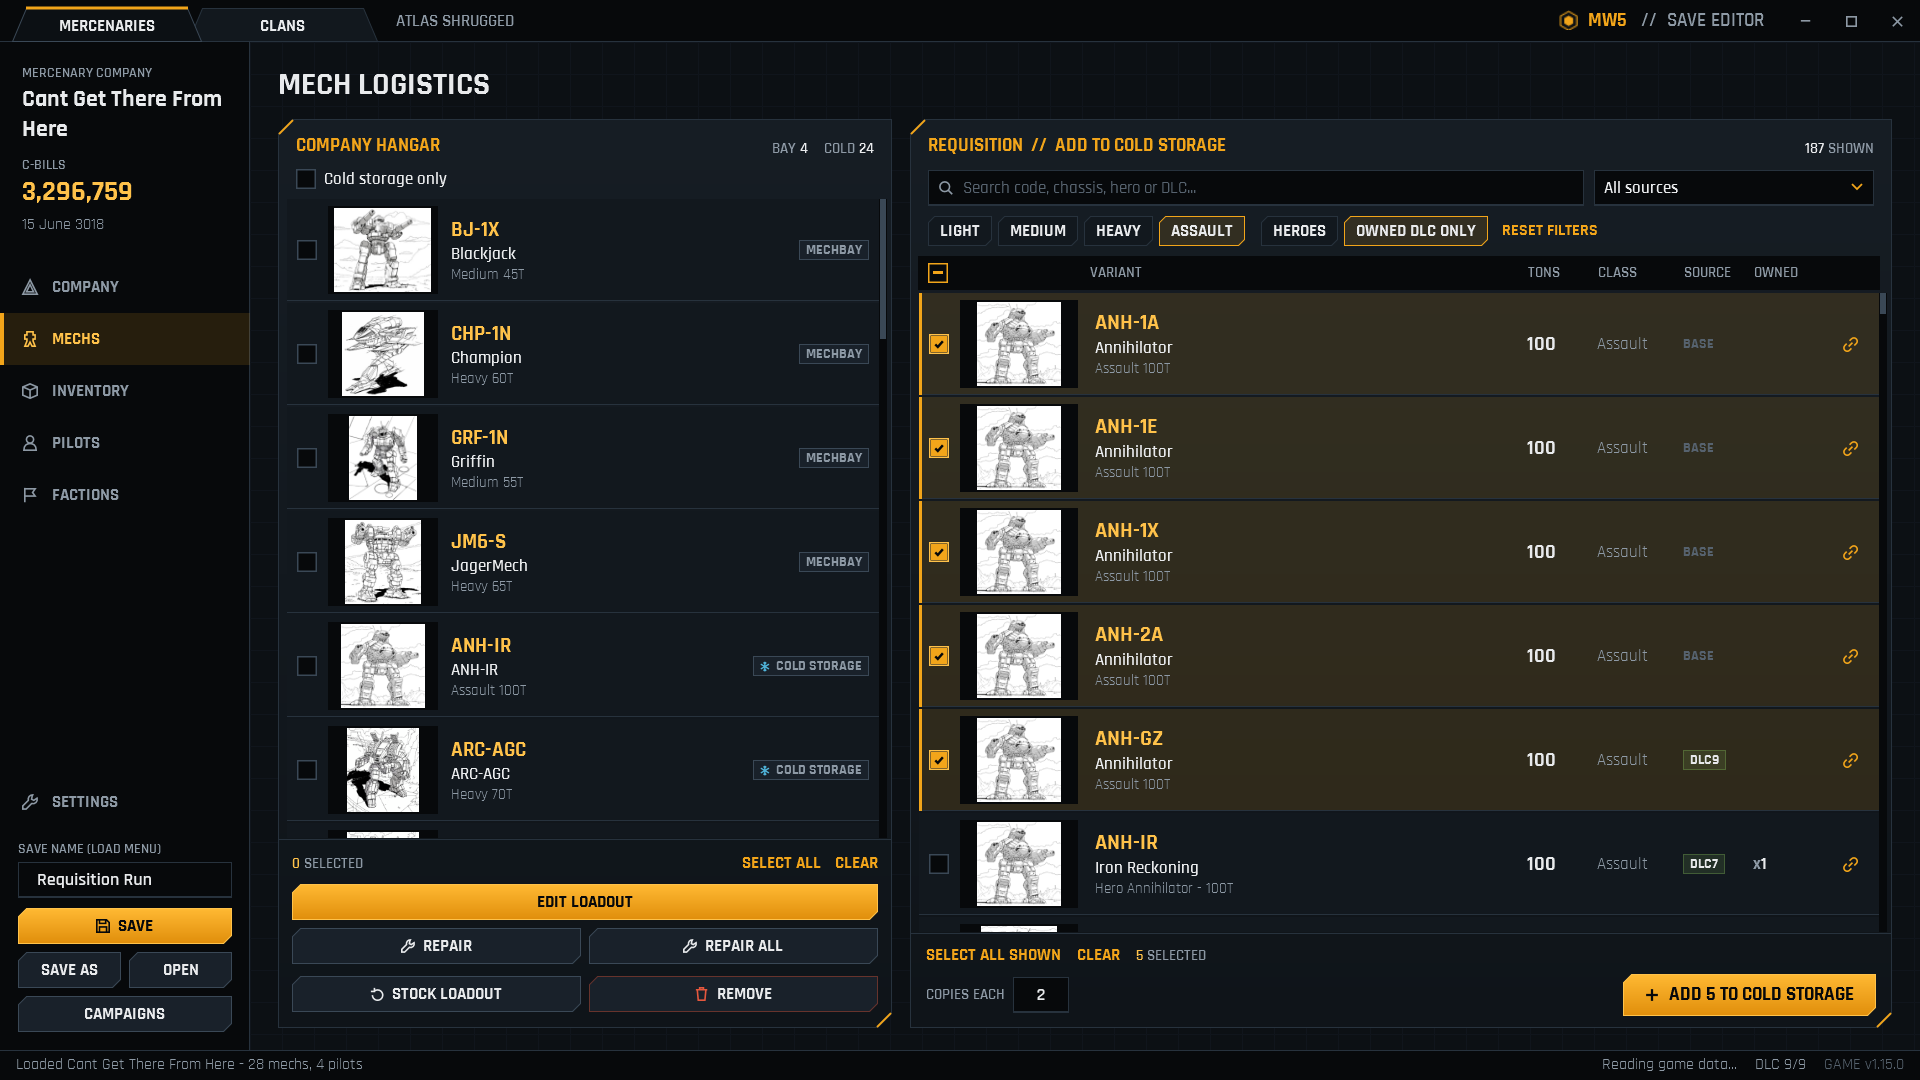
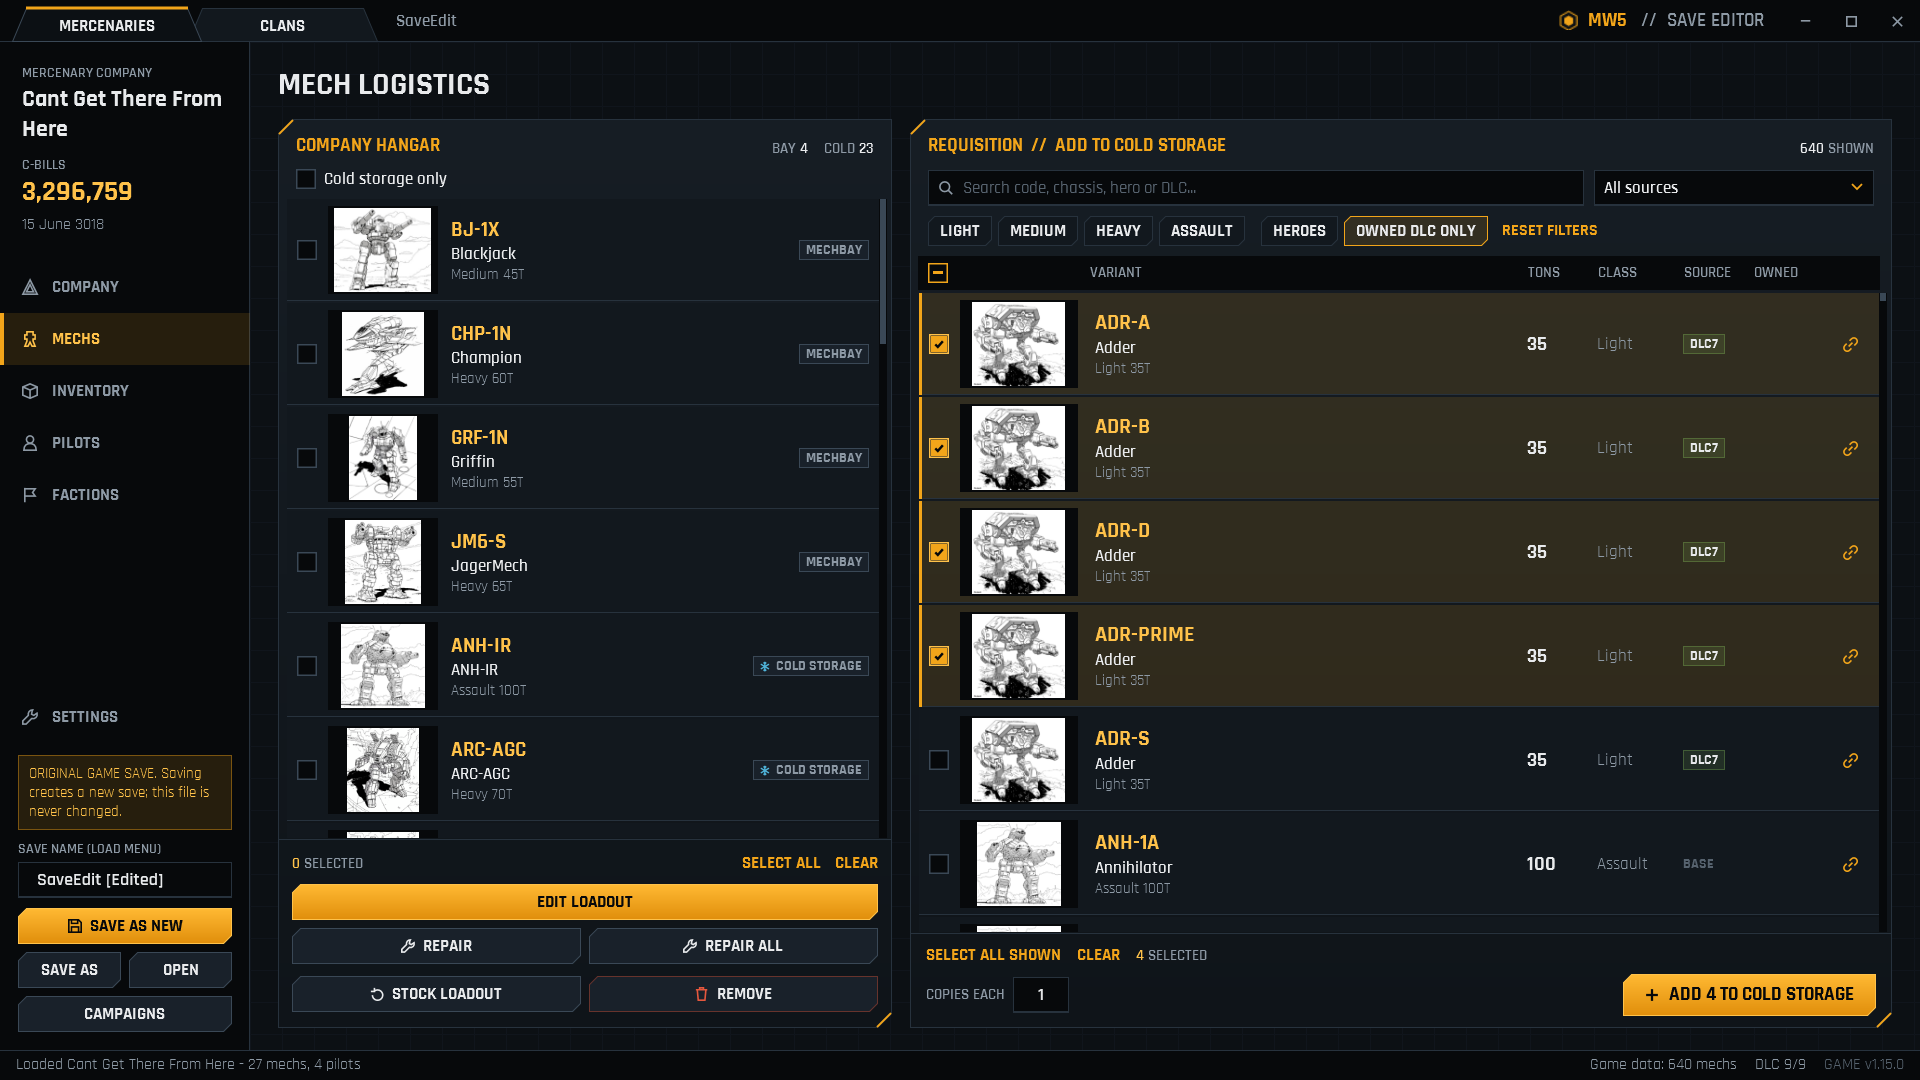
Retake the 20 screenshots in assets/ (1920x1080, sandbox copies of real saves, mech pictures loaded) on the all-MindAttic.Components UI with this session's fixes (the Clans Mechs page shows the player's 14 mechs, not 68 shop and planned entries); the Clans in Mercs-theme pair, no longer possible sin
Claude-Session: https://claude.ai/code/session_01TbpBhJm9hVPyqYbi8Jqrqw

diff --git a/tests/MechWarrior5.SaveEditor.Headless.Tests/Screenshots.cs b/tests/MechWarrior5.SaveEditor.Headless.Tests/Screenshots.cs
@@ -1,0 +1,176 @@
+using System.Windows;
+using System.Windows.Media;
+using System.Windows.Media.Imaging;
+using System.Windows.Threading;
+using MechWarrior5.SaveEditor.App.Clans.ViewModels;
+using MechWarrior5.SaveEditor.App.ViewModels;
+using ClansPage = MechWarrior5.SaveEditor.App.Clans.ViewModels.Page;
+using MercsPage = MechWarrior5.SaveEditor.App.ViewModels.Page;
+
+namespace MechWarrior5.SaveEditor.Headless.Tests;
+
+/// <summary>
+/// Retakes the 20 README/NexusMods screenshots in assets/ (1920x1080) from the real app, off-screen, on sandbox
+/// copies of real saves. Explicit: run it on purpose with --filter Category=Screenshots.
+/// </summary>
+public partial class UiHeadlessTests
+{
+    private const int ShotWidth = 1920;
+    private const int ShotHeight = 1080;
+
+    [Test]
+    [Explicit("Writes assets/*.png; run on purpose to refresh the screenshots.")]
+    [Category("Screenshots")]
+    public void Retake_the_readme_screenshots()
+    {
+        var assets = Path.Combine(RepoRoot(), "assets");
+
+        // Mercenaries
+        var (_, mercsSave) = SaveFixtures.MercsCampaignCopy();
+        LoadoutEditorViewModel? lab = null;
+        var (shell, window, _) = Launch(clansFolder: null, new FakeEditorWindows(editor => lab = editor), downloads: true);
+        Size(window);
+        Shot(window, assets, "mercs-01-campaigns");
+        shell.OpenPath(mercsSave);
+        WaitForGameData(shell.Mercs);
+
+        shell.Mercs.NavigateCommand.Execute(MercsPage.Company);
+        Shot(window, assets, "mercs-02-company");
+
+        shell.Mercs.NavigateCommand.Execute(MercsPage.Mechs);
+        var mechs = (App.ViewModels.MechsViewModel)shell.Mercs.CurrentView!;
+        foreach (var row in mechs.CatalogView.Cast<CatalogMechViewModel>().Where(r => r.IsDlcOwned).Take(4))
+        {
+            row.IsChecked = true;
+        }
+
+        Shot(window, assets, "mercs-03-mechs-requisition");
+        mechs.ClearSelectionCommand.Execute(null);
+        mechs.HeroesOnly = true;
+        Shot(window, assets, "mercs-04-mechs-heroes");
+        mechs.HeroesOnly = false;
+        mechs.Search = "Atlas";
+        Shot(window, assets, "mercs-05-mechs-search");
+        mechs.Search = string.Empty;
+
+        var refit = mechs.Hangar.FirstOrDefault(h => h.Record.IsEditable && h.IsColdStorage) ?? mechs.Hangar.First(h => h.Record.IsEditable);
+        mechs.EditLoadoutCommand.Execute(refit);
+        Assert.That(lab, Is.Not.Null, "the Mech Lab opened");
+        var labWindow = new App.Views.LoadoutEditorWindow(lab!) { Left = -4000, Top = 0, ShowActivated = false };
+        labWindow.Show();
+        Size(labWindow);
+        lab!.Tab = LoadoutTab.Weapons;
+        Shot(labWindow, assets, "mercs-06-mechlab-weapons");
+        lab.Tab = LoadoutTab.Armor;
+        Shot(labWindow, assets, "mercs-07-mechlab-armor");
+        labWindow.Close();
+
+        shell.Mercs.NavigateCommand.Execute(MercsPage.Inventory);
+        Shot(window, assets, "mercs-08-inventory");
+        shell.Mercs.NavigateCommand.Execute(MercsPage.Pilots);
+        Shot(window, assets, "mercs-09-pilots");
+        shell.Mercs.NavigateCommand.Execute(MercsPage.Factions);
+        Shot(window, assets, "mercs-10-factions");
+        window.Close();
+
+        // Clans
+        var (clansFolder, clansSave) = SaveFixtures.ClansFolderCopy();
+        (shell, window, _) = Launch(clansFolder, downloads: true);
+        Size(window);
+        shell.IsClansGame = true;
+        Shot(window, assets, "clans-01-campaigns");
+        shell.OpenPath(clansSave);
+        shell.Clans.SaveName = "Smoke Jaguar Reinforced";
+
+        shell.Clans.NavigateCommand.Execute(ClansPage.Resources);
+        Shot(window, assets, "clans-02-resources");
+
+        shell.Clans.NavigateCommand.Execute(ClansPage.Mechs);
+        var clansMechs = (App.Clans.ViewModels.MechsViewModel)shell.Clans.CurrentView!;
+        Shot(window, assets, "clans-03-mechs");
+        clansMechs.SelectDamagedCommand.Execute(null);
+        if (clansMechs.CheckedCount == 0)
+        {
+            foreach (var row in clansMechs.Rows.Take(3))
+            {
+                row.IsChecked = true;
+            }
+        }
+
+        Shot(window, assets, "clans-04-mechs-damaged-selected");
+        clansMechs.SelectNoneCommand.Execute(null);
+        clansMechs.Rows[0].IsChecked = true;
+        clansMechs.DuplicateCommand.Execute(null);
+        Shot(window, assets, "clans-05-mechs-duplicate");
+
+        shell.Clans.NavigateCommand.Execute(ClansPage.Inventory);
+        Shot(window, assets, "clans-06-inventory");
+        shell.Clans.NavigateCommand.Execute(ClansPage.Progress);
+        Shot(window, assets, "clans-07-progress");
+        shell.Clans.NavigateCommand.Execute(ClansPage.Settings);
+        Shot(window, assets, "clans-08-settings");
+
+        shell.Clans.NavigateCommand.Execute(ClansPage.Mechs);
+        clansMechs = (App.Clans.ViewModels.MechsViewModel)shell.Clans.CurrentView!;
+        clansMechs.Filter = clansMechs.Rows[0].Mech.Chassis;
+        Shot(window, assets, "clans-09-mechs-filtered");
+
+        shell.Clans.NavigateCommand.Execute(ClansPage.Inventory);
+        var inventory = (App.Clans.ViewModels.InventoryViewModel)shell.Clans.CurrentView!;
+        foreach (var row in inventory.Rows.Take(3))
+        {
+            row.IsChecked = true;
+        }
+
+        Shot(window, assets, "clans-10-inventory-ticked");
+        window.Close();
+    }
+
+    private static void Size(Window window)
+    {
+        window.Width = ShotWidth;
+        window.Height = ShotHeight;
+        Settle();
+    }
+
+    private static void Settle()
+    {
+        for (var i = 0; i < 30; i++)
+        {
+            var frame = new DispatcherFrame();
+            Dispatcher.CurrentDispatcher.BeginInvoke(DispatcherPriority.Background, () => frame.Continue = false);
+            Dispatcher.PushFrame(frame);
+        }
+    }
+
+    private static void Shot(Window window, string folder, string name)
+    {
+        // Mech pictures load asynchronously (cache or Sarna); give them time like a player would.
+        var until = DateTime.UtcNow.AddSeconds(4);
+        while (DateTime.UtcNow < until)
+        {
+            Settle();
+            Thread.Sleep(50);
+        }
+
+        var root = (FrameworkElement)window.Content;
+        var bitmap = new RenderTargetBitmap((int)root.ActualWidth, (int)root.ActualHeight, 96, 96, PixelFormats.Pbgra32);
+        bitmap.Render(root);
+        var encoder = new PngBitmapEncoder();
+        encoder.Frames.Add(BitmapFrame.Create(bitmap));
+        using var file = File.Create(Path.Combine(folder, name + ".png"));
+        encoder.Save(file);
+        TestContext.Out.WriteLine($"{name}.png {bitmap.PixelWidth}x{bitmap.PixelHeight}");
+    }
+
+    private static string RepoRoot()
+    {
+        var dir = new DirectoryInfo(TestContext.CurrentContext.TestDirectory);
+        while (dir is not null && !File.Exists(Path.Combine(dir.FullName, "MechWarrior5.SaveEditor.sln")))
+        {
+            dir = dir.Parent;
+        }
+
+        return dir?.FullName ?? throw new DirectoryNotFoundException("repo root");
+    }
+}

diff --git a/tests/MechWarrior5.SaveEditor.Headless.Tests/UiHeadlessTests.cs b/tests/MechWarrior5.SaveEditor.Headless.Tests/UiHeadlessTests.cs
@@ -169,11 +169,11 @@ public partial class UiHeadlessTests
         });
     }
 
-    private (ShellViewModel Shell, Window Window, FakeDialogs Dialogs) Launch(string? clansFolder, IEditorWindows? windows = null)
+    private (ShellViewModel Shell, Window Window, FakeDialogs Dialogs) Launch(string? clansFolder, IEditorWindows? windows = null, bool downloads = false)
     {
         var settings = new JsonSettings<AppSettings>(_settingsDir);
         settings.Current.ClansSaveFolder = clansFolder;
-        settings.Current.DownloadMechImages = false;
+        settings.Current.DownloadMechImages = downloads;
         var dialogs = new FakeDialogs();
         var mercs = new MainViewModel(MechCatalog.LoadBuiltIn(), ItemCatalog.LoadBuiltIn(), PilotCatalog.LoadBuiltIn(), dialogs, settings, windows ?? new EditorWindows(), Path.Combine(_settingsDir, "img"));
         var shell = new ShellViewModel(mercs, new ClansMainViewModel(dialogs, settings), settings);
